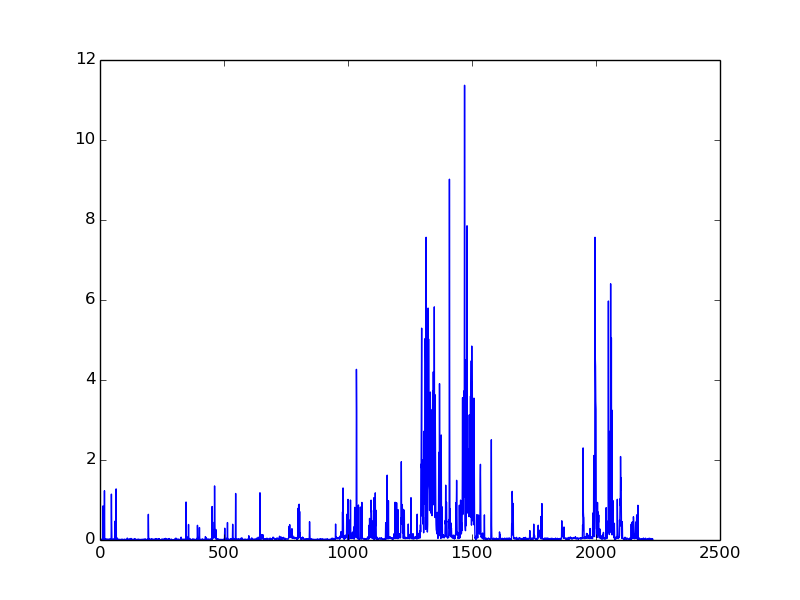
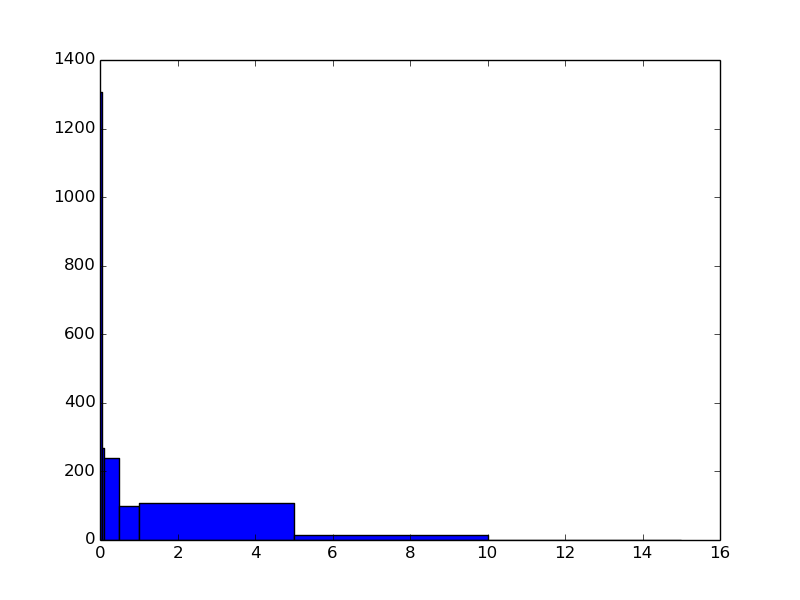
histogram

Changed region(s): [[0.0625, 0.15, 0.8125, 0.93], [0.875, 0.9, 0.9375, 0.93], [0.0625, 0.09, 0.125, 0.12]]

diff --git a/SdA2.py b/SdA2.py
@@ -686,6 +686,6 @@ def test_SdA(nins,nouts,hidden_layer_sizes,corruption_levels,
     normal_cost = numpy.array(normal_cost)
     #normal_cost = normal_cost.reshape(2264,)
     #normal_cost = [normal_cost[i] for i in normal_cost.argsort()]
-    plt.plot(normal_cost)
+    plt.hist(normal_cost,bins=(0.005,0.01,0.05,0.1,0.5,1,5,10,15))
     plt.savefig('recon_error_distribution.png')
     
